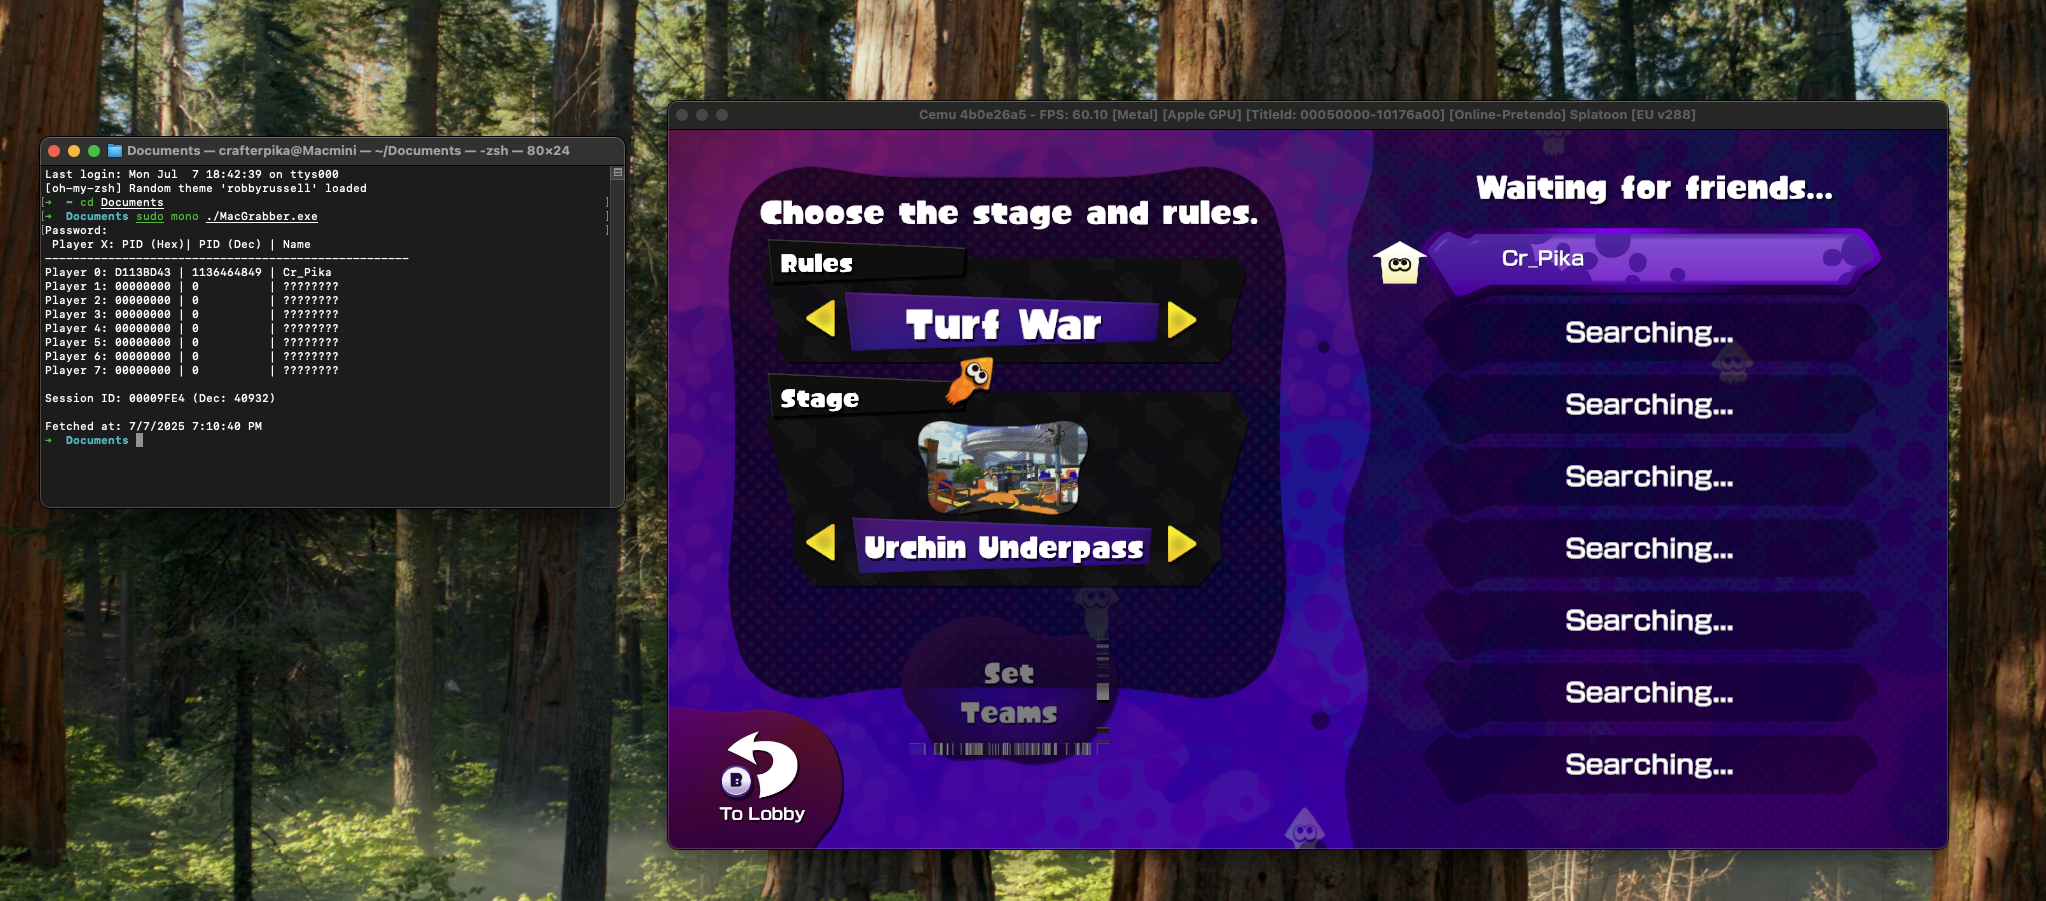
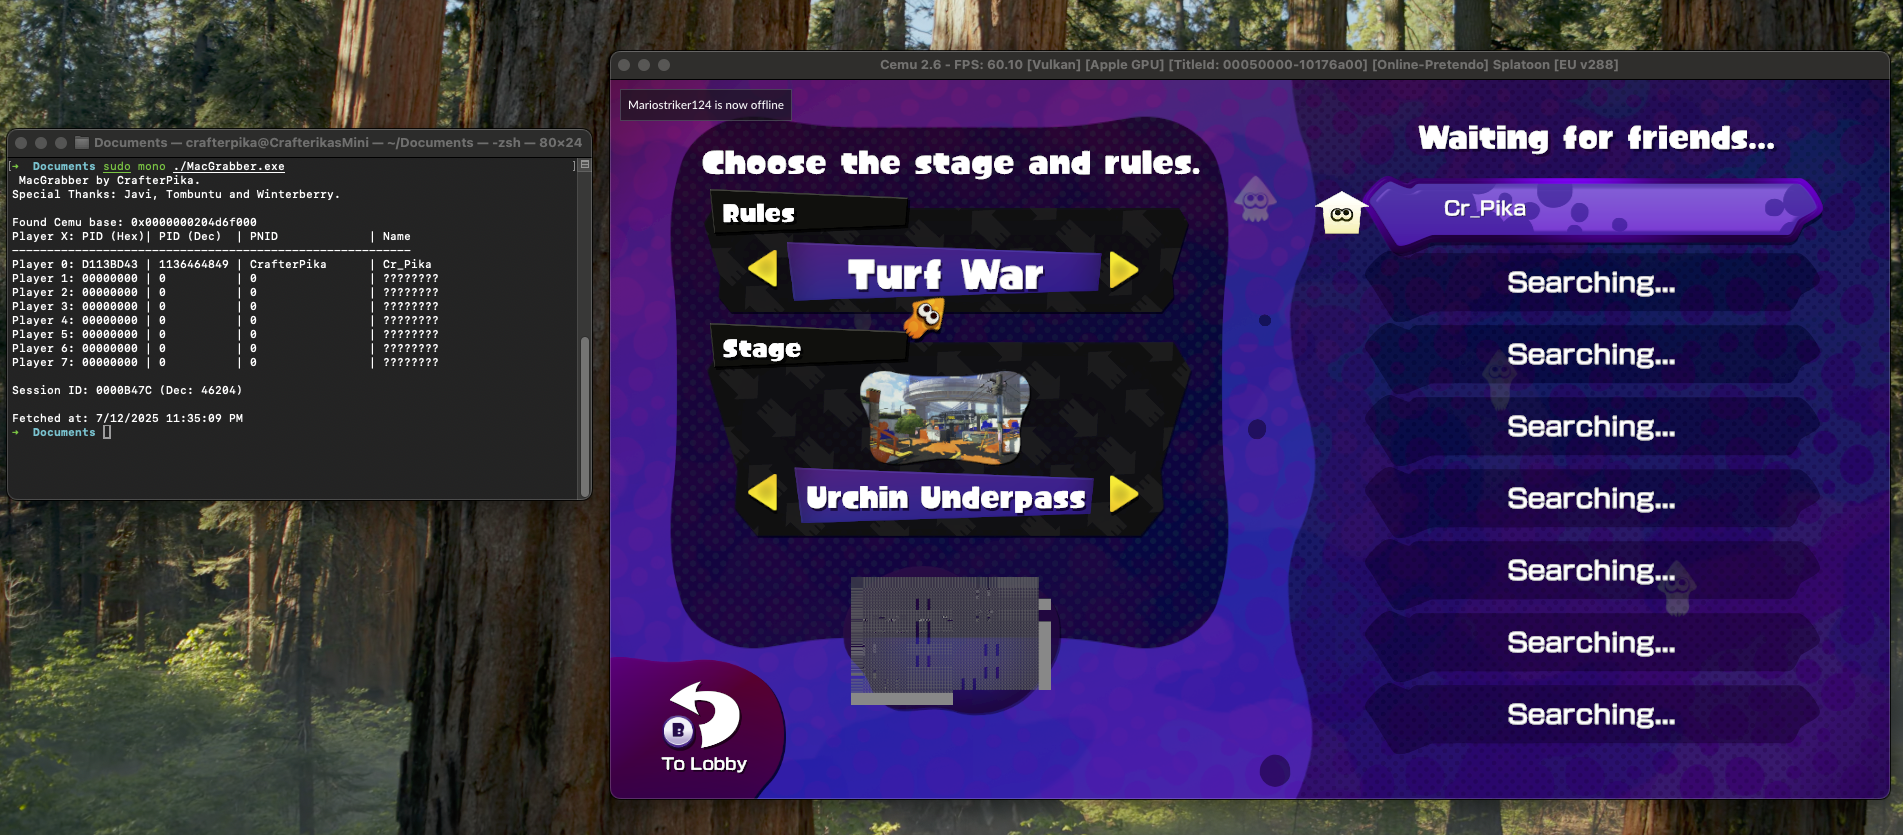
.

diff --git a/README.md b/README.md
@@ -4,10 +4,18 @@ Splatoon v288 Cemu PID Grabber for MacOS
 
 ![image](demo.png)
 
+# Output
+
+Tool will prove following output:
+- Player Number
+- PID (hex & dec format)
+- PNID (Fetched from Pretendo's API)
+- Session ID (hex & dec format)
+- Fetch date (time when the script ran)
+
 # Compile
 
 You'll need [brew.sh](https://brew.sh) to compile this project
-
 
 Install mono using homebrew:
 ```
@@ -23,3 +31,10 @@ Run it while Splatoon is open in Cemu:
 ```
 sudo mono ./MacGrabber.exe
 ```
+
+# Credits
+
+Special Thanks goes to:
+- [Javi](https://github.com/javiig8): PID Pointer chain in [Splatheap-PID-Grabber](https://github.com/javiig8/Splatheap-PID-Grabber/blob/33166b5d679043f82b451f778b5918be228c88eb/splatheap/Form1.cs#L89)
+- [Tombuntu](https://github.com/ReXiSp): For the Session ID Pointer Chain
+- [Winterberry](https://github.com/c8ff): For the original [LinuxGrabber](https://github.com/c8ff/LinuxGrabber) where this project is obviously based on.
